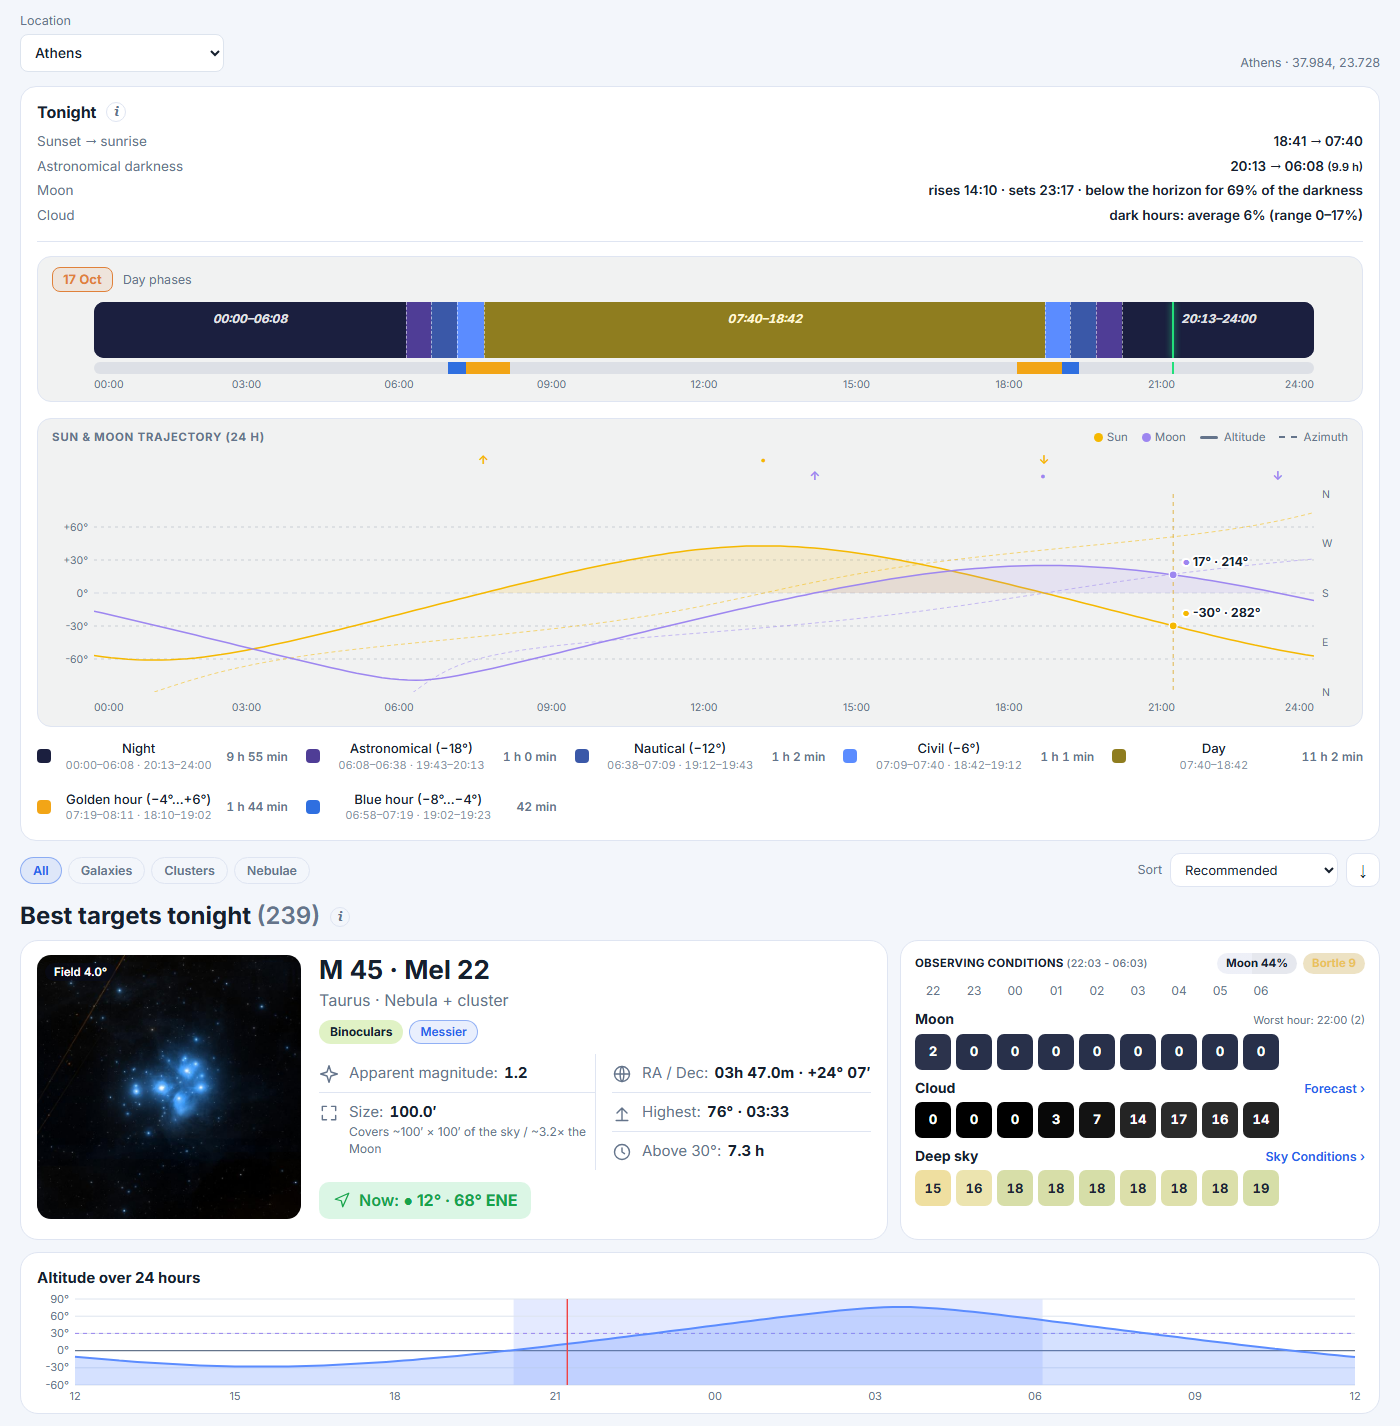
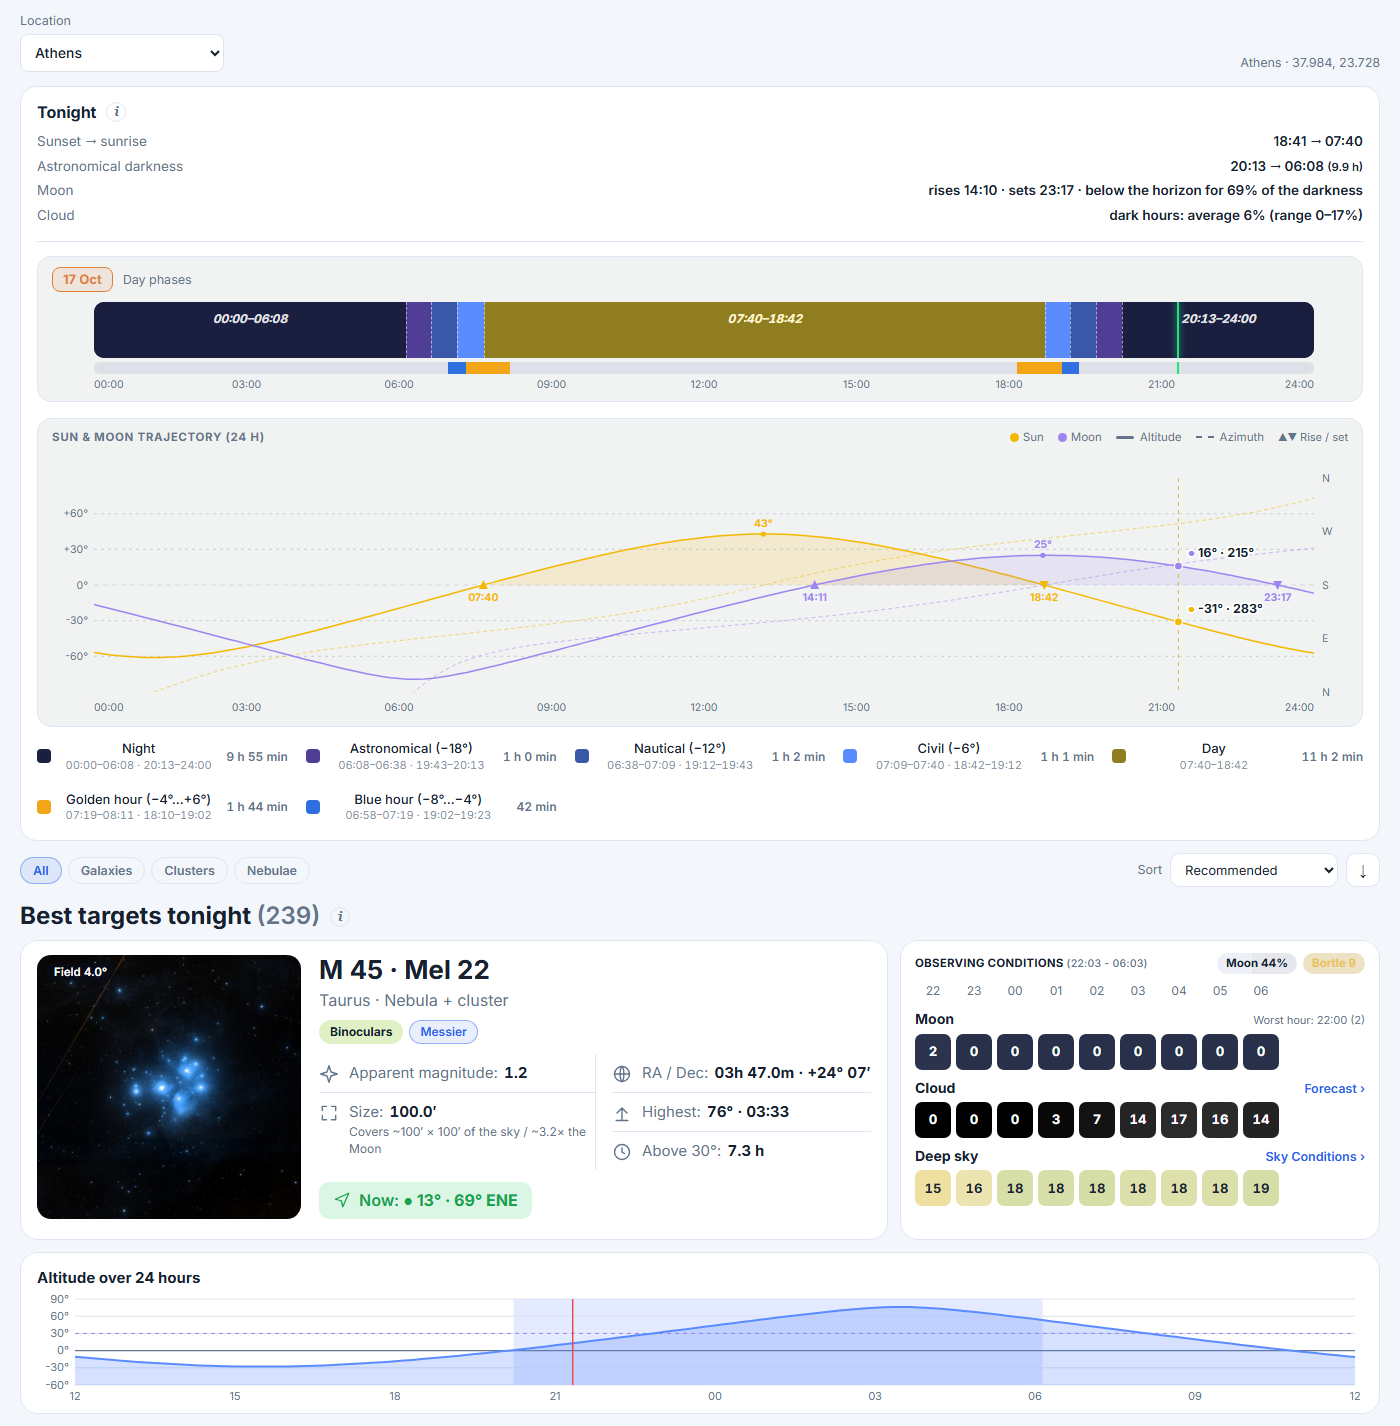
DSO trajectories: rise/set triangles on the horizon with their times and the peak altitude, instead of the floating arrows

diff --git a/js/dso.js b/js/dso.js
@@ -314,11 +314,11 @@ const Dso = (() => {
   /* One chart for the local day with the Sun AND the Moon: altitude (solid, shaded above the horizon), azimuth (dashed, right axis), ↑ rise • highest ↓ set
      marks (Sun row above the Moon row) and a "now" line with each body's altitude · azimuth */
   function trajChart(d, W, H) {
-    const pl = 42, pr = 34, pt = 46, pb = 26, pw = W - pl - pr, ph = H - pt - pb;
+    const pl = 42, pr = 34, pt = 30, pb = 26, pw = W - pl - pr, ph = H - pt - pb;
     const X = (m) => pl + (m / 1440) * pw, Y = (a) => pt + ph * (1 - (clamp(a, -90, 90) + 90) / 180), Yaz = (az) => pt + ph * (1 - az / 360);
     const hz = Y(0), bodies = [
-      { kind: 'sun', pts: d.sun, col: '#f5b800', now: { alt: d.now.sunAlt, az: d.now.sunAz }, mrow: pt - 30 },
-      { kind: 'moon', pts: d.moon, col: '#9d86f0', now: { alt: d.now.moonAlt, az: d.now.moonAz }, mrow: pt - 14 },
+      { kind: 'sun', pts: d.sun, col: '#f5b800', now: { alt: d.now.sunAlt, az: d.now.sunAz }, },
+      { kind: 'moon', pts: d.moon, col: '#9d86f0', now: { alt: d.now.moonAlt, az: d.now.moonAz }, },
     ];
     let g = `<defs><clipPath id="tjc"><rect x="${pl}" y="${pt}" width="${pw}" height="${ph}"/></clipPath></defs>`;
     for (const a of [60, 30, 0, -30, -60]) g += `<line x1="${pl}" x2="${W - pr}" y1="${Y(a).toFixed(1)}" y2="${Y(a).toFixed(1)}" class="${a === 0 ? 'hz' : 'gl'}"/><text x="${pl - 6}" y="${(Y(a) + 3.5).toFixed(1)}" text-anchor="end" class="lb">${a > 0 ? '+' : ''}${a}°</text>`;
@@ -326,6 +326,7 @@ const Dso = (() => {
     dirs.forEach((c, i) => { g += `<text x="${W - pr + 8}" y="${(pt + ph * (i / 4) + 3.5).toFixed(1)}" class="lb">${c}</text>`; });
     for (const h of [0, 3, 6, 9, 12, 15, 18, 21, 24]) g += `<text x="${X(h * 60).toFixed(1)}" y="${H - 7}" text-anchor="${h === 0 ? 'start' : h === 24 ? 'end' : 'middle'}" class="lb">${String(h).padStart(2, '0')}:00</text>`;
     let clipped = '', marks = '', dots = '', labels = '';
+    const usedX = [];                                                           // x of the rise / set labels already drawn (the Moon's move down a line when they would collide)
     const nx = X(clamp(d.nowMin, 0, 1440));
     const ys = bodies.map((b) => Y(b.now.alt));
     const close = Math.abs(ys[0] - ys[1]) < 18;
@@ -339,8 +340,16 @@ const Dso = (() => {
       clipped += `<polygon points="${area}" fill="${b.col}" fill-opacity=".14"/><polyline points="${azLine}" fill="none" stroke="${b.col}" stroke-opacity=".6" stroke-width="0.9" stroke-dasharray="4 3"/><polyline points="${altLine}" fill="none" stroke="${b.col}" stroke-width="1.5" stroke-linejoin="round"/>`;
       const cross = (dir) => { for (let i = 1; i < b.pts.length; i++) { const a = b.pts[i - 1][1], c = b.pts[i][1]; if (dir > 0 ? a < 0 && c >= 0 : a > 0 && c <= 0) return b.pts[i - 1][0] + ((b.pts[i][0] - b.pts[i - 1][0]) * (0 - a)) / (c - a); } return null; };
       const top = b.pts.reduce((m, q) => (q[1] > m[1] ? q : m), b.pts[0]);
-      const mk = (m, glyph, label) => (m == null ? '' : `<text x="${X(m).toFixed(1)}" y="${b.mrow}" text-anchor="middle" class="mk" style="fill:${b.col}"><title>${esc(t('dso.ph.' + b.kind))} · ${esc(label)} ${fmMin(m)}</title>${glyph}</text>`);
-      marks += mk(cross(1), '↑', t('dso.tj.rise')) + (top[1] > 0 ? mk(top[0], '•', t('dso.tj.transit')) : '') + mk(cross(-1), '↓', t('dso.tj.set'));
+      // rise / set: a small triangle ON the horizon line with its time; highest point: a dot on the curve with the altitude
+      const tri = (m, up, label) => {
+        if (m == null) return '';
+        const x = X(m), clash = usedX.some((u) => Math.abs(u - x) < 40), ty = hz + 16 + (clash ? 12 : 0);
+        usedX.push(x);
+        return `<path d="${up ? `M${x - 4.5},${hz + 4} L${x + 4.5},${hz + 4} L${x},${hz - 5}` : `M${x - 4.5},${hz - 4} L${x + 4.5},${hz - 4} L${x},${hz + 5}`} Z" fill="${b.col}"><title>${esc(t('dso.ph.' + b.kind))} · ${esc(label)} ${fmMin(m)}</title></path>`
+          + `<text x="${x.toFixed(1)}" y="${ty.toFixed(1)}" text-anchor="middle" class="mt" style="fill:${b.col}">${fmMin(m)}</text>`;
+      };
+      marks += tri(cross(1), true, t('dso.tj.rise')) + tri(cross(-1), false, t('dso.tj.set'));
+      if (top[1] > 0) marks += `<circle cx="${X(top[0]).toFixed(1)}" cy="${Y(top[1]).toFixed(1)}" r="2.6" fill="${b.col}"><title>${esc(t('dso.ph.' + b.kind))} · ${esc(t('dso.tj.transit'))} ${fmMin(top[0])} · ${top[1].toFixed(0)}°</title></circle><text x="${X(top[0]).toFixed(1)}" y="${(Y(top[1]) - 7).toFixed(1)}" text-anchor="middle" class="mt" style="fill:${b.col}">${top[1].toFixed(0)}°</text>`;
       const ny = ys[bi];
       dots += `<circle cx="${nx.toFixed(1)}" cy="${ny.toFixed(1)}" r="4" fill="${b.col}" stroke="#fff" stroke-width="1.2"/>`;
       const right = nx <= W - pr - 100, lx = right ? nx + 9 : nx - 9, anc = right ? 'start' : 'end';
@@ -349,7 +358,7 @@ const Dso = (() => {
     });
     g += `<g clip-path="url(#tjc)">${clipped}</g>${marks}<line x1="${nx.toFixed(1)}" x2="${nx.toFixed(1)}" y1="${pt}" y2="${pt + ph}" class="nw"/>${dots}${labels}`;
     const chip = (b) => `<i class="dotc" style="background:${b.col}"></i>${esc(t('dso.ph.' + b.kind))}`;
-    return `<section class="tj-card"><div class="tj-h"><b>${esc(t('dso.tj.both'))}</b><span class="tj-key">${chip(bodies[0])}${chip(bodies[1])}<i class="al"></i>${esc(t('dso.tj.alt'))}<i class="az"></i>${esc(t('dso.tj.az'))}</span></div>
+    return `<section class="tj-card"><div class="tj-h"><b>${esc(t('dso.tj.both'))}</b><span class="tj-key">${chip(bodies[0])}${chip(bodies[1])}<i class="al"></i>${esc(t('dso.tj.alt'))}<i class="az"></i>${esc(t('dso.tj.az'))}<span class="mkk">▲▼ ${esc(t('dso.tj.riseset'))}</span></span></div>
       <svg viewBox="0 0 ${W} ${H}" class="tj-svg" role="img" aria-label="${esc(t('dso.tj.both'))}">${g}</svg></section>`;
   }
   function phasesHtml(loc, offSec) {

diff --git a/js/i18n.js b/js/i18n.js
@@ -18,7 +18,7 @@ const I18N = {
     'dso.wx.title': 'Observing conditions', 'dso.wx.moon': 'Moon {p}%', 'dso.wx.deep': 'Deep sky', 'dso.d.cov': 'Covers ~{a}′ × {b}′ of the sky', 'dso.d.covm': ' / ~{n}× the Moon',
     'dso.ph.title': 'Day phases', 'dso.ph.night': 'Night', 'dso.ph.astro': 'Astronomical (−18°)', 'dso.ph.naut': 'Nautical (−12°)', 'dso.ph.civil': 'Civil (−6°)', 'dso.ph.day': 'Day', 'dso.ph.sun': 'Sun', 'dso.ph.moon': 'Moon', 'dso.ph.golden': 'Golden hour (−4°…+6°)', 'dso.ph.blue': 'Blue hour (−8°…−4°)',
     'dso.sort': 'Sort', 'dso.sort.score': 'Recommended', 'dso.sort.now': 'Altitude right now', 'dso.sort.alt': 'Peak altitude tonight', 'dso.sort.size': 'Size', 'dso.sort.mag': 'Apparent magnitude', 'dso.sort.rev': 'Reverse order', 'dso.sort.help': 'Recommended = effective magnitude with a bonus for altitude. Altitude right now = how high the object is at this moment. Peak altitude tonight = the highest it gets during the darkness. Size = largest dimension, apparent magnitude = brightest first. The arrow reverses the order.',
-    'dso.tj.both': 'Sun & Moon trajectory (24 h)', 'dso.tj.moon': 'Moon trajectory (24 h)', 'dso.tj.sun': 'Sun trajectory (24 h)', 'dso.tj.alt': 'Altitude', 'dso.tj.az': 'Azimuth', 'dso.tj.rise': 'Rise', 'dso.tj.transit': 'Highest', 'dso.tj.set': 'Set',
+    'dso.tj.both': 'Sun & Moon trajectory (24 h)', 'dso.tj.riseset': 'Rise / set', 'dso.tj.moon': 'Moon trajectory (24 h)', 'dso.tj.sun': 'Sun trajectory (24 h)', 'dso.tj.alt': 'Altitude', 'dso.tj.az': 'Azimuth', 'dso.tj.rise': 'Rise', 'dso.tj.transit': 'Highest', 'dso.tj.set': 'Set',
     'dso.dur.hm': '{h} h {m} min', 'dso.dur.m': '{m} min', 'dso.ph.total': 'Total time spent in this phase today',
     'dso.tab.catalog': 'Catalogue', 'dso.tab.tonight': 'Tonight', 'dso.back': '← Back', 'dso.loaderr': 'Could not load the object catalogue.',
     'dso.search': 'Search name or constellation…', 'dso.chip.m': 'Messier', 'dso.chip.c': 'Caldwell', 'dso.chip.best': 'Best NGC', 'dso.chip.h4': 'Herschel 400',
@@ -247,7 +247,7 @@ const I18N = {
     'dso.wx.title': 'Συνθήκες παρατήρησης', 'dso.wx.moon': 'Σελήνη {p}%', 'dso.wx.deep': 'Βαθύς ουρανός', 'dso.d.cov': 'Καλύπτει ~{a}′ × {b}′ του ουρανού', 'dso.d.covm': ' / ~{n}× τη Σελήνη',
     'dso.ph.title': 'Φάσεις ημέρας', 'dso.ph.night': 'Νύχτα', 'dso.ph.astro': 'Αστρονομικό (−18°)', 'dso.ph.naut': 'Ναυτικό (−12°)', 'dso.ph.civil': 'Πολιτικό (−6°)', 'dso.ph.day': 'Ημέρα', 'dso.ph.sun': 'Ήλιος', 'dso.ph.moon': 'Σελήνη', 'dso.ph.golden': 'Χρυσή ώρα (−4°…+6°)', 'dso.ph.blue': 'Μπλε ώρα (−8°…−4°)',
     'dso.sort': 'Ταξινόμηση', 'dso.sort.score': 'Προτεινόμενα', 'dso.sort.now': 'Ύψος αυτή τη στιγμή', 'dso.sort.alt': 'Μέγιστο ύψος απόψε', 'dso.sort.size': 'Διαστάσεις', 'dso.sort.mag': 'Φαινόμενη λαμπρότητα', 'dso.sort.rev': 'Αντίστροφη σειρά', 'dso.sort.help': 'Προτεινόμενα = ενεργό μέγεθος με μπόνους για το ύψος. Ύψος αυτή τη στιγμή = πόσο ψηλά βρίσκεται το αντικείμενο τώρα. Μέγιστο ύψος απόψε = το ψηλότερο σημείο που φτάνει μέσα στο σκοτάδι. Διαστάσεις = η μεγαλύτερη διάσταση, φαινόμενη λαμπρότητα = πρώτα τα φωτεινότερα. Το βελάκι αντιστρέφει τη σειρά.',
-    'dso.tj.both': 'Τροχιά Ηλίου & Σελήνης (24ωρο)', 'dso.tj.moon': 'Τροχιά Σελήνης (24ωρο)', 'dso.tj.sun': 'Τροχιά Ηλίου (24ωρο)', 'dso.tj.alt': 'Ύψος', 'dso.tj.az': 'Αζιμούθιο', 'dso.tj.rise': 'Ανατολή', 'dso.tj.transit': 'Μέγιστο ύψος', 'dso.tj.set': 'Δύση',
+    'dso.tj.both': 'Τροχιά Ηλίου & Σελήνης (24ωρο)', 'dso.tj.riseset': 'Ανατολή / δύση', 'dso.tj.moon': 'Τροχιά Σελήνης (24ωρο)', 'dso.tj.sun': 'Τροχιά Ηλίου (24ωρο)', 'dso.tj.alt': 'Ύψος', 'dso.tj.az': 'Αζιμούθιο', 'dso.tj.rise': 'Ανατολή', 'dso.tj.transit': 'Μέγιστο ύψος', 'dso.tj.set': 'Δύση',
     'dso.dur.hm': '{h} ω {m} λ', 'dso.dur.m': '{m} λ', 'dso.ph.total': 'Συνολικός χρόνος σε αυτή τη φάση σήμερα',
     'dso.tab.catalog': 'Κατάλογος', 'dso.tab.tonight': 'Απόψε', 'dso.back': '← Πίσω', 'dso.loaderr': 'Δεν φορτώθηκε ο κατάλογος αντικειμένων.',
     'dso.search': 'Αναζήτηση ονόματος ή αστερισμού…', 'dso.chip.m': 'Messier', 'dso.chip.c': 'Caldwell', 'dso.chip.best': 'Best NGC', 'dso.chip.h4': 'Herschel 400',

diff --git a/index.html b/index.html
@@ -9,7 +9,7 @@
 <link rel="preconnect" href="https://fonts.googleapis.com"><link rel="preconnect" href="https://fonts.gstatic.com" crossorigin>
 <link rel="stylesheet" href="https://fonts.googleapis.com/css2?family=Inter:wght@400;500;600;700&display=swap&subset=greek">
 <link rel="stylesheet" href="https://unpkg.com/leaflet@1.9.4/dist/leaflet.css">
-<link rel="stylesheet" href="css/style.css?v=20261131">
+<link rel="stylesheet" href="css/style.css?v=20261132">
 </head>
 <body>
 <header class="topbar">
@@ -252,11 +252,11 @@
 <footer data-i18n-html="footer.html"></footer>
 
 <script src="https://unpkg.com/leaflet@1.9.4/dist/leaflet.js"></script>
-<script src="js/i18n.js?v=20261131"></script>
-<script src="js/icons.js?v=20261131"></script>
-<script src="js/app.js?v=20261131"></script>
-<script src="js/astro.js?v=20261131"></script>
-<script src="js/sunset.js?v=20261131"></script>
-<script src="js/dso.js?v=20261131"></script>
+<script src="js/i18n.js?v=20261132"></script>
+<script src="js/icons.js?v=20261132"></script>
+<script src="js/app.js?v=20261132"></script>
+<script src="js/astro.js?v=20261132"></script>
+<script src="js/sunset.js?v=20261132"></script>
+<script src="js/dso.js?v=20261132"></script>
 </body>
 </html>

diff --git a/css/style.css b/css/style.css
@@ -995,3 +995,7 @@ select, input[type=text], input[type=number], input[type=search] { font: inherit
 .dp-leg b { font-weight: 500; }
 .dp-leg .rg { font-weight: 400; font-size: 11px; color: color-mix(in srgb, var(--d-muted) 80%, transparent); }
 .dp-leg .tot { font-weight: 600; font-size: 12px; color: var(--d-muted); white-space: nowrap; }
+
+/* rise / set triangles sit on the horizon, with their time under the line */
+.tj-svg .mt { font-size: 10.5px; font-weight: 700; paint-order: stroke; stroke: color-mix(in srgb, var(--d-card) 94%, var(--d-text) 6%); stroke-width: 3px; stroke-linejoin: round; }
+.tj-key .mkk { margin-left: 8px; font-size: 11px; }
